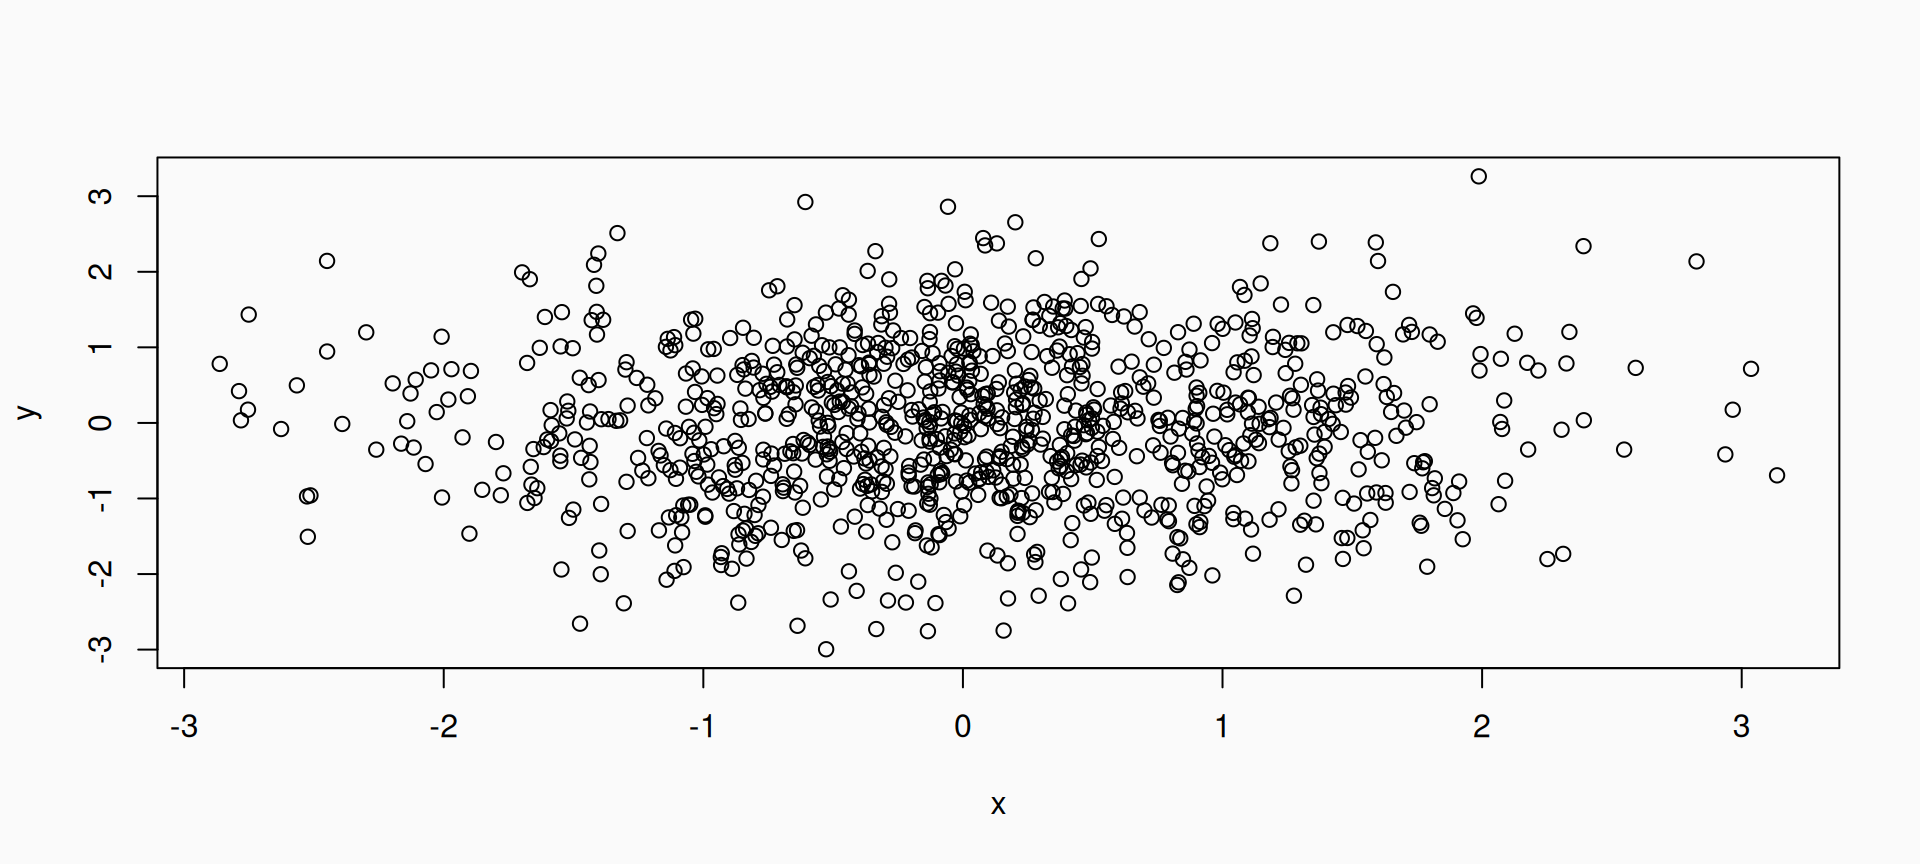
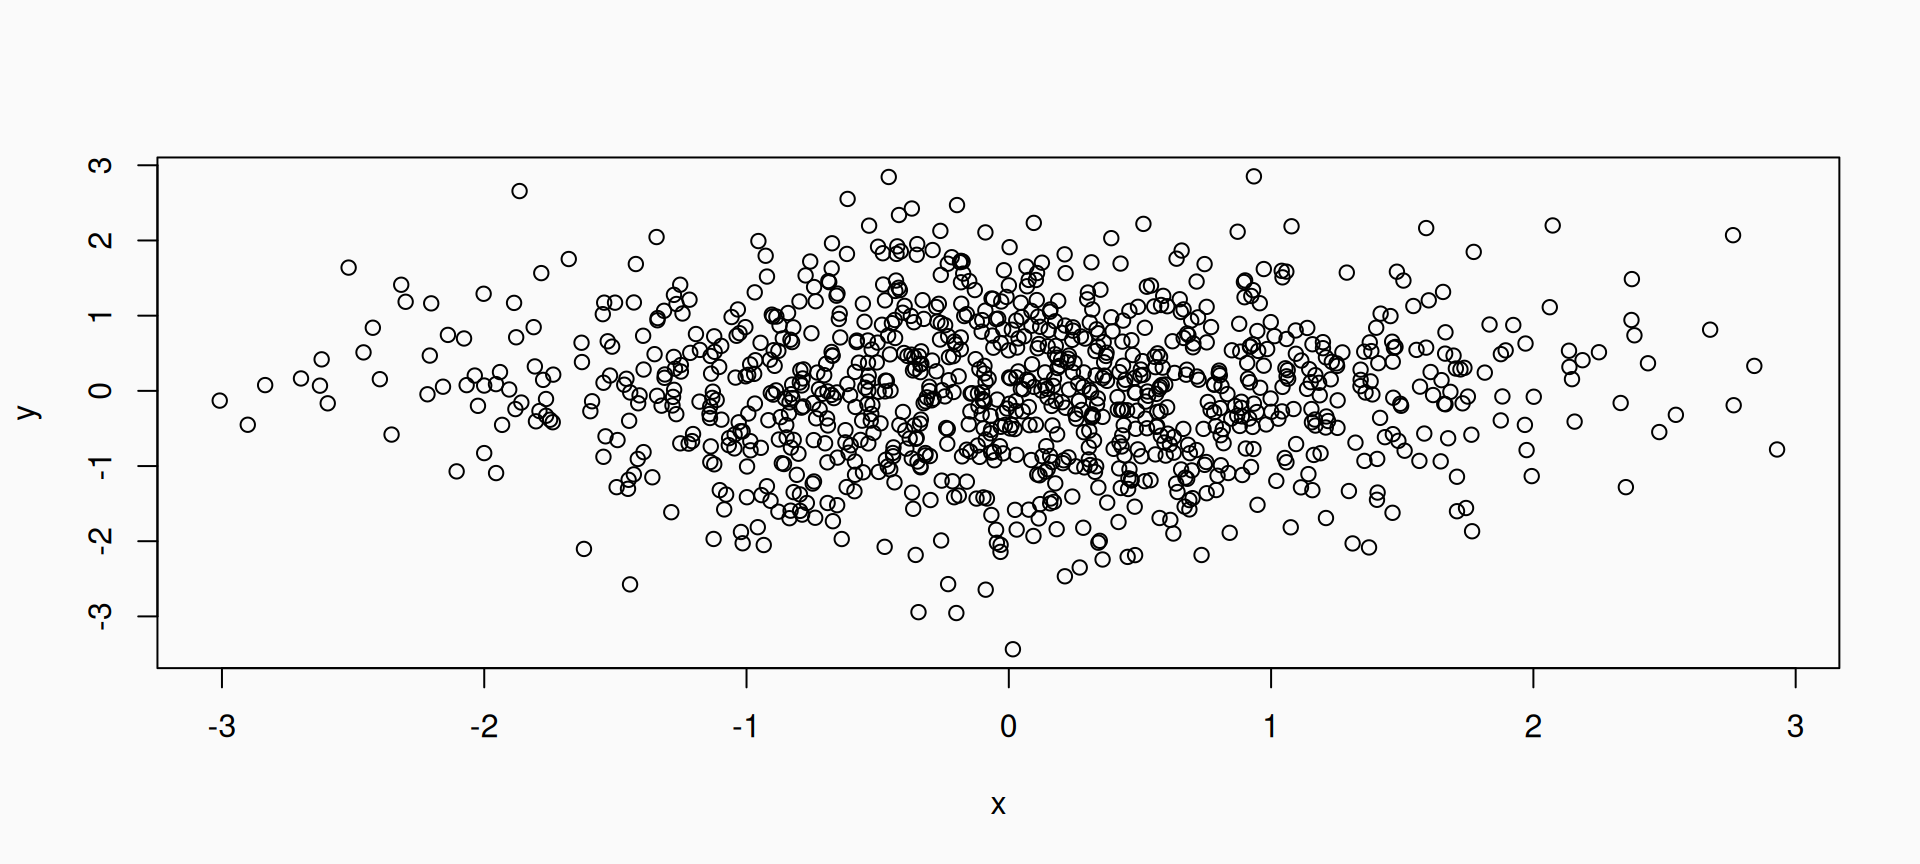
Update ucl-new.css to add code that can handle the print-to-pdf via url argument is required
Usage: decktape [options] [command] <url> <filename>
       decktape version

command      one of: automatic, bespoke, deck, dzslides, flowtime, generic, impress, inspire, nuedeck, remark, reveal, rise, shower-1.x, shower-2.x, slidy, webslides
url          URL of the slides deck
filename     Filename of the output PDF file

Options:
   -s <size>, --size <size>        Size of the slides deck viewport: <width>x<height> (e.g. '1280x720')
   -p <ms>, --pause <ms>           Duration in milliseconds before each slide is exported  [1000]
   --load-pause <ms>               Duration in milliseconds between the page has loaded and starting to export slides  [0]
   --url-load-timeout <ms>         Timeout in milliseconds to use when waiting for the initial URL to load  [60000]
   --page-load-timeout <ms>        Timeout in milliseconds to use when waiting for the slide deck page to load  [20000]
   --buffer-timeout <ms>           Timeout in milliseconds to use when waiting for a slide to finish buffering (set to 0 to disable)  [30000]
   --screenshots                   Capture each slide as an image  [false]
   --screenshots-directory <dir>   Screenshots output directory  [screenshots]
   --screenshots-size <size>       Screenshots resolution, can be repeated
   --screenshots-format <format>   Screenshots image format, one of [jpg, png]  [png]
   --slides <range>                Range of slides to be exported, a combination of slide indexes and ranges (e.g. '1-3,5,8')
[…]

diff --git a/inst/quarto/gb-slides.html b/inst/quarto/gb-slides.html
@@ -103,7 +103,7 @@
     code span.vs { color: #20794d; } /* VerbatimString */
     code span.wa { color: #5e5e5e; font-style: italic; } /* Warning */
   </style>
-  <link rel="stylesheet" href="gb-slides_files/libs/revealjs/dist/theme/quarto-9939cc1c745a8e53c3914db3a274c595.css">
+  <link rel="stylesheet" href="gb-slides_files/libs/revealjs/dist/theme/quarto-c44f2feb0d441af81299915209317b1d.css">
   <link rel="stylesheet" href="./css/fonts.css">
   <link rel="stylesheet" href="./css/common.css">
   <link href="gb-slides_files/libs/revealjs/plugin/quarto-line-highlight/line-highlight.css" rel="stylesheet">
@@ -262,6 +262,11 @@
     }
   });
   </script>
+  <script>
+    if (/HeadlessChrome/.test(navigator.userAgent)) {
+      document.documentElement.classList.add('decktape');
+    }
+  </script>
   <script type="module" src="gb-slides_files/libs/quarto-ojs/quarto-ojs-runtime.js"></script>
   <link href="gb-slides_files/libs/quarto-ojs/quarto-ojs.css" rel="stylesheet">
   <link href="gb-slides_files/libs/htmltools-fill-0.5.9.9000/fill.css" rel="stylesheet">
@@ -275,7 +280,7 @@
   <link href="gb-slides_files/libs/rstudio_leaflet-1.3.1/rstudio_leaflet.css" rel="stylesheet">
   <script src="gb-slides_files/libs/leaflet-binding-2.2.3/leaflet.js"></script>
   <script type="ojs-define">
-  {"contents":[{"name":"actors","value":{"x":[1.17663832294816,-0.0834478931827818,0.937452264236475,-0.278491438975246,-1.10661054455018,-0.41419505118637,0.577228204970836,-0.271234044820161,-0.252199553310105,0.49142204620258,-1.22792654224811,0.0674665316655564,1.14810944216004,0.0347147689026805,-0.947121629985544,-1.82866435584254,0.489761676951671,-0.160974733469587,1.08222647402108,-0.866318710808071,-1.01556407830935,0.118508058607683,2.11037625450211,-0.651258765465466,-0.390394748781889,0.126353670667506,-2.16341856470932,-1.10755304236524,0.303206953027347,1.59278552884691,-0.128577199208813,-0.148374618366179,0.611371209196135,-1.28951420720371,-0.442688057616789,-0.0314386403914397,1.55196864384842,0.862817841382411,-0.878723739221194,1.11769428809713,-0.537564611854537,0.30217427935522,-1.38066974434692,1.74099057079246,1.22627135116904,-0.33009494597347,0.630558388698525,-0.935805655167458,0.608647798890539,0.0873509631815022,-0.299605189509512,-0.934495331269329,0.298669547855043,1.11753606884284,0.309281981682329,0.609076867987867,0.790080058696307,0.8658482169864,0.28806702134077,-1.69338053546227,-0.649206826298728,-0.604899446861081,1.1629604636545,0.368444909909459,0.291155042502466,0.74831337574505,0.889035338513857,0.280864908324364,-0.452970963453682,-0.071939086421413,0.457367810670705,-0.276604253226601,-1.85031143319726,1.29090614416376,2.08932320459405,-1.69657581879035,-1.49433002197748,-1.61363166386403,-0.269182962722211,0.744916487553795,-1.41832391345825,-0.598629911037527,-1.1588638065236,0.139549293946276,3.14239107826301,-1.03730081816869,0.134302359883298,1.20082896794245,-0.482558084483441,0.911861094378882,-0.56844490414859,1.45075944477163,0.12090425140001,-1.94725666631974,0.692341587936158,0.601374139431251,0.250931358607707,0.184491515515748,1.38489626589055,0.198985282800788],"y":[-1.55491201138545,0.462281246061309,0.407447068934571,-0.0287123044465042,-0.781547490322061,0.157584187737712,-1.03655335680185,0.0434501389009976,-0.714928590553495,-1.24295555222267,-0.284102468644735,1.44916760202475,1.35016294117813,-1.57360905811171,-0.696180121081698,0.308452478037905,-1.58049752311069,-0.185296036344721,0.231901081106698,1.59474186569839,-0.671689215104027,0.240730118407079,-0.34600425674977,1.36966608151003,-0.133601940326554,0.672345576619471,-0.87599044265624,-0.325650041327195,-0.458110190820928,-0.138778311723384,-0.680917551508026,-0.997093205894123,-0.765299685766711,0.240691178734716,-1.59227567232237,-0.480562972752634,0.905826503014636,1.0712331161396,-0.0473974642197943,-0.23229123260488,-0.0967654268407001,1.12246960641239,0.819732001138962,0.30133914199233,-0.0291110855450022,-1.95637813971919,-0.763864862233402,0.825595150976281,1.54994350749122,1.61103238103517,-0.440314870577067,-0.765711148432711,-0.125376336012642,-0.822691069548536,0.651113753294347,0.43242232806179,1.01410634635174,-0.548647407537867,0.108243068230235,-0.897058579978988,0.1446152128602,-0.250683254274349,1.03555426131022,-1.08999988855287,1.76691701806523,-0.0717891158959516,-1.25922345308284,-0.296000821264913,-0.166963264763149,1.35027722705838,0.882178162479561,-1.0410819383682,0.0472150348603399,0.276457082248007,0.209593574481833,0.0155742459028286,-0.989800399831401,1.99250766951423,-0.126917324158101,0.843498514766363,-1.75493202773496,-0.943656811736523,0.0136036034775136,1.00074726588014,0.409608931737776,-0.838202199317139,1.09717334692163,-0.283290235348644,1.4395649715242,1.64253339738963,1.13111808290869,2.01332667248211,-2.40048111325904,-1.4700649807863,1.84535149293987,1.31207435688494,0.415344924775051,-0.643926341213422,-0.815573073493741,0.912995698304053]}}]}
+  {"contents":[{"name":"actors","value":{"x":[-1.16920217107859,-1.61871591233285,-0.114455123858569,0.189080579172817,-0.476951351401267,-0.10172798902215,-1.58630597948509,0.0236358937126883,-0.107294228072815,0.603184749034936,-0.202071541241286,1.52124279631473,0.496877960529582,0.483900492355483,1.03299322910099,-1.32889748301038,-0.422584272804492,-0.864044236009386,-1.70261778854009,-0.172378658633223,-1.2386885043347,-0.450871160187178,0.641450271691605,-3.60413871676448,-0.830250836648864,0.539619560380419,-0.512166068718915,-1.50045261549445,1.72204630212675,1.02693943248843,-0.0253646750813788,0.3312540919674,0.180266715345658,-0.147429461986758,1.70308043263968,0.947733658419735,0.806298051998895,0.378536099286202,-1.25104697218527,-0.522130505873409,0.421892826854072,-0.0322623099764489,-1.0660339814048,-1.00977099147669,0.144328949461787,-0.322414105338389,-0.949438763674146,-0.639279414648506,1.68387075097342,-0.200753938327931,0.126557451204796,0.805731153374171,0.51608937530409,0.768114095963339,1.31016999879716,1.15941630133142,0.298760529010328,-0.802394368834369,-1.1474651460801,0.108693009755446,1.74383533447734,1.055165323617,0.342064130692939,0.732419248438278,1.86349776731741,0.337967802041659,0.941951684378247,-1.37128340519257,-0.180397215050455,0.458127708588445,-0.914715844755511,1.46214324879999,1.07688421220277,-0.0588991420210911,0.729690044574318,0.108964689566414,0.771983751914282,0.464220027313316,-0.332688933176788,0.914027246172709,-0.0480564589949358,0.0436654994625371,-0.722858676858594,-0.0590758326159839,-1.471125225739,-0.846582236933321,0.172079207602966,1.48779691607361,-0.947252314812467,0.792659394886933,-1.55766520945459,-1.31321801462209,0.0378625037467636,2.45252842922045,0.619327138336827,1.06407451398069,-1.5292703205139,-0.704986243029223,0.51790982266854,0.797630961830386],"y":[1.05112039729658,-1.73847306324447,0.139783932566814,0.120331860230219,-0.306289286205792,0.811294539114632,0.95705919213146,1.8245667203294,-1.1950838576573,-0.183172504436956,-1.7822602897856,0.265284257340327,-1.32148180008029,-0.289387558059702,0.245716772312615,1.21064329925557,-0.424097637603667,-0.526167790013592,1.013530363215,1.16891135269849,-0.169541781512269,-0.844241162937414,-1.53607609413114,-1.52356030018568,-1.53692357995789,0.48028640863139,0.455444578304814,-0.874368404088283,0.166380339421514,-1.09995915538877,-1.7583562265334,-0.178455540001023,-0.699245621464108,-0.566641081580413,-0.731588348965299,-1.03059555303364,0.610083091607204,2.3178496449055,-0.126741282005037,-0.50437255208487,-0.0942294995277239,0.281708577834141,0.333754341981266,-1.55965336660261,0.550351284713838,1.22206524827533,-0.178065487267582,0.615846420485313,-0.43432537713292,-0.874737945974218,1.04302563861742,-0.675697879746706,0.0879578230059895,-0.627814853738554,-0.850472420571834,2.69402847998087,-0.460616844746123,-0.72586340743201,0.246450912060315,-0.354064333650558,0.0852269125450588,0.623954274386635,2.31465701348558,0.861268958346073,1.08736688831186,-0.815289627117676,1.22136411042925,0.405848813448487,1.26297465033739,0.50008815214984,-1.19819250325349,-0.121537998902942,-0.653448232571946,-0.80897605513618,0.894666608878042,0.36460290227054,-0.391338165971446,-1.26252514281386,0.352443623463798,0.134629992655237,-0.87603191409538,-0.208560966668895,-0.107120996095439,-0.72079439664807,1.23759206569907,0.00490949779262007,0.589233246935375,0.109611567599213,-0.380241274037324,-0.137133078719761,2.09667674333306,0.323484735414038,0.734161343391922,-0.659074897412405,-1.06516208829742,-0.029867046034588,-1.62590467917897,-0.889844187217611,-0.205559559869037,-0.159898649581903]}}]}
   </script>
 </head>
 <body class="quarto-light">
@@ -307,7 +312,7 @@
 
 <br>
 
-<p style="margin-top:3vw!important;" class="date-conference">7 July 2026</p>
+<p style="margin-top:3vw!important;" class="date-conference">10 July 2026</p>
 
 <p style="margin:0px;" class="date-conference">The name of the session</p>
        <p style="margin:0px;" class="date-conference">The name of the conference, Where it is</p>
@@ -508,7 +513,7 @@ to the end of the slide, to ensure that the footer doesn’t interfere with the 
 <h1>Section title slide</h1>
 <p>Setting the background colour to a dark colour automatically changes the colour of the text to make it visible over a dark background!</p>
 <div class="footer-nobg">
-<p>© Gianluca Baio (UCL) &nbsp; | &nbsp; <a href="https://www.linkedin.com/in/gianluca-baio/" title="Follow me on LinkedIn"><i class="fa-brands fa-linkedin" aria-label="linkedin"></i></a> &nbsp; <a href="https://mas.to/@gianlubaio" title="Follow me on Mastodon"><i class="fa-brands fa-mastodon" aria-label="mastodon"></i></a> &nbsp; <a href="https://github.com/giabaio" title="Check out my repos"><i class="fa-brands fa-github" aria-label="github"></i></a> &nbsp; <a href="mailto:g.baio@ucl.ac.uk" title="Email me"><i class="fa-solid fa-envelope" aria-label="envelope"></i></a> &nbsp; <a href="https://gianluca.statistica.it" title="Visit my website"><i class="fa-brands fa-firefox" aria-label="firefox"></i></a> &nbsp; | &nbsp; A short title &nbsp; | &nbsp; A shorter title of the conference &nbsp; | &nbsp; 7 Jul 2026 </p>
+<p>© Gianluca Baio (UCL) &nbsp; | &nbsp; <a href="https://www.linkedin.com/in/gianluca-baio/" title="Follow me on LinkedIn"><i class="fa-brands fa-linkedin" aria-label="linkedin"></i></a> &nbsp; <a href="https://mas.to/@gianlubaio" title="Follow me on Mastodon"><i class="fa-brands fa-mastodon" aria-label="mastodon"></i></a> &nbsp; <a href="https://github.com/giabaio" title="Check out my repos"><i class="fa-brands fa-github" aria-label="github"></i></a> &nbsp; <a href="mailto:g.baio@ucl.ac.uk" title="Email me"><i class="fa-solid fa-envelope" aria-label="envelope"></i></a> &nbsp; <a href="https://gianluca.statistica.it" title="Visit my website"><i class="fa-brands fa-firefox" aria-label="firefox"></i></a> &nbsp; | &nbsp; A short title &nbsp; | &nbsp; A shorter title of the conference &nbsp; | &nbsp; 10 Jul 2026 </p>
 </div>
 </section>
 <section id="code-chunk-and-output-side-by-side" class="slide level2" data-auto-animate="true">
@@ -1879,8 +1884,8 @@ a_{21}&amp; =b_{21}&amp;
 <p>Include Jupyter widgets and htmlwidgets in your presentations</p>
 <div class="cell" data-layout-align="center">
 <div class="cell-output-display">
-<div class="leaflet html-widget html-fill-item" id="htmlwidget-5def7cb96349eb9e5c55" style="width:55%;height:480px;"></div>
-<script type="application/json" data-for="htmlwidget-5def7cb96349eb9e5c55">{"x":{"options":{"crs":{"crsClass":"L.CRS.EPSG3857","code":null,"proj4def":null,"projectedBounds":null,"options":{}}},"calls":[{"method":"addTiles","args":["https://{s}.tile.openstreetmap.org/{z}/{x}/{y}.png",null,null,{"minZoom":0,"maxZoom":18,"tileSize":256,"subdomains":"abc","errorTileUrl":"","tms":false,"noWrap":false,"zoomOffset":0,"zoomReverse":false,"opacity":1,"zIndex":1,"detectRetina":false,"attribution":"&copy; <a href=\"https://openstreetmap.org/copyright/\">OpenStreetMap<\/a>,  <a href=\"https://opendatacommons.org/licenses/odbl/\">ODbL<\/a>"}]},{"method":"addMarkers","args":[-36.852,174.768,null,null,null,{"interactive":true,"draggable":false,"keyboard":true,"title":"","alt":"","zIndexOffset":0,"opacity":1,"riseOnHover":false,"riseOffset":250},"The birthplace of R",null,null,null,null,{"interactive":false,"permanent":false,"direction":"auto","opacity":1,"offset":[0,0],"textsize":"10px","textOnly":false,"className":"","sticky":true},null]}],"limits":{"lat":[-36.852,-36.852],"lng":[174.768,174.768]}},"evals":[],"jsHooks":[]}</script>
+<div class="leaflet html-widget html-fill-item" id="htmlwidget-047181b8569f32b113fa" style="width:55%;height:480px;"></div>
+<script type="application/json" data-for="htmlwidget-047181b8569f32b113fa">{"x":{"options":{"crs":{"crsClass":"L.CRS.EPSG3857","code":null,"proj4def":null,"projectedBounds":null,"options":{}}},"calls":[{"method":"addTiles","args":["https://{s}.tile.openstreetmap.org/{z}/{x}/{y}.png",null,null,{"minZoom":0,"maxZoom":18,"tileSize":256,"subdomains":"abc","errorTileUrl":"","tms":false,"noWrap":false,"zoomOffset":0,"zoomReverse":false,"opacity":1,"zIndex":1,"detectRetina":false,"attribution":"&copy; <a href=\"https://openstreetmap.org/copyright/\">OpenStreetMap<\/a>,  <a href=\"https://opendatacommons.org/licenses/odbl/\">ODbL<\/a>"}]},{"method":"addMarkers","args":[-36.852,174.768,null,null,null,{"interactive":true,"draggable":false,"keyboard":true,"title":"","alt":"","zIndexOffset":0,"opacity":1,"riseOnHover":false,"riseOffset":250},"The birthplace of R",null,null,null,null,{"interactive":false,"permanent":false,"direction":"auto","opacity":1,"offset":[0,0],"textsize":"10px","textOnly":false,"className":"","sticky":true},null]}],"limits":{"lat":[-36.852,-36.852],"lng":[174.768,174.768]}},"evals":[],"jsHooks":[]}</script>
 </div>
 </div>
 <div class="footer">
@@ -2070,7 +2075,7 @@ a_{21}&amp; =b_{21}&amp;
     </div>
   <div class="quarto-auto-generated-content" style="display: none;">
 <div class="footer footer-default">
-<p>© Gianluca Baio (UCL) &nbsp; | &nbsp; <a href="https://www.linkedin.com/in/gianluca-baio/" title="Follow me on LinkedIn"><i class="fa-brands fa-linkedin" aria-label="linkedin"></i></a> &nbsp; <a href="https://mas.to/@gianlubaio" title="Follow me on Mastodon"><i class="fa-brands fa-mastodon" aria-label="mastodon"></i></a> &nbsp; <a href="https://github.com/giabaio" title="Check out my repos"><i class="fa-brands fa-github" aria-label="github"></i></a> &nbsp; <a href="mailto:g.baio@ucl.ac.uk" title="Email me"><i class="fa-solid fa-envelope" aria-label="envelope"></i></a> &nbsp; <a href="https://gianluca.statistica.it" title="Visit my website"><i class="fa-brands fa-firefox" aria-label="firefox"></i></a> &nbsp; | &nbsp; A short title &nbsp; | &nbsp; A shorter title of the conference &nbsp; | &nbsp; 7 Jul 2026 </p>
+<p>© Gianluca Baio (UCL) &nbsp; | &nbsp; <a href="https://www.linkedin.com/in/gianluca-baio/" title="Follow me on LinkedIn"><i class="fa-brands fa-linkedin" aria-label="linkedin"></i></a> &nbsp; <a href="https://mas.to/@gianlubaio" title="Follow me on Mastodon"><i class="fa-brands fa-mastodon" aria-label="mastodon"></i></a> &nbsp; <a href="https://github.com/giabaio" title="Check out my repos"><i class="fa-brands fa-github" aria-label="github"></i></a> &nbsp; <a href="mailto:g.baio@ucl.ac.uk" title="Email me"><i class="fa-solid fa-envelope" aria-label="envelope"></i></a> &nbsp; <a href="https://gianluca.statistica.it" title="Visit my website"><i class="fa-brands fa-firefox" aria-label="firefox"></i></a> &nbsp; | &nbsp; A short title &nbsp; | &nbsp; A shorter title of the conference &nbsp; | &nbsp; 10 Jul 2026 </p>
 </div>
 </div></div>
 

diff --git a/inst/quarto/_extensions/ucl/ucl-new.scss b/inst/quarto/_extensions/ucl/ucl-new.scss
@@ -327,3 +327,31 @@ section.divider-bg li {
   margin-top: auto !important; // This pushes it to the bottom
   margin-bottom: 12px !important;
 }
+
+/* Defines a special `no-link` class in which a hyperlink is not coloured like the normal ones */
+.no-link a {
+  color: inherit;
+  text-decoration: none;
+}
+
+// Fixes the size of the footer when printing to pdf via `decktape`
+html.decktape .reveal div.footer.footer-default {
+  padding-top: 2px !important;
+  padding-bottom: 2px !important;
+  line-height: 1.2 !important;
+}
+html.decktape .reveal div.footer.footer-default,
+html.decktape .reveal div.footer.footer-default * {
+  font-size: 0.75em !important;
+}
+html.decktape .reveal div.slide-number,
+html.decktape .reveal div.slide-number * {
+  padding-bottom: 0px !important;
+  font-size: 0.75em !important;
+}
+/*
+html.decktape .reveal div.footer.footer-default > *,
+html.decktape .reveal div.footer.footer-default p {
+  margin: 0 !important;
+}
+*/

diff --git a/inst/quarto/assets/decktape_tag.html b/inst/quarto/assets/decktape_tag.html
@@ -1,0 +1,5 @@
+<script>
+  if (/HeadlessChrome/.test(navigator.userAgent)) {
+    document.documentElement.classList.add('decktape');
+  }
+</script>
